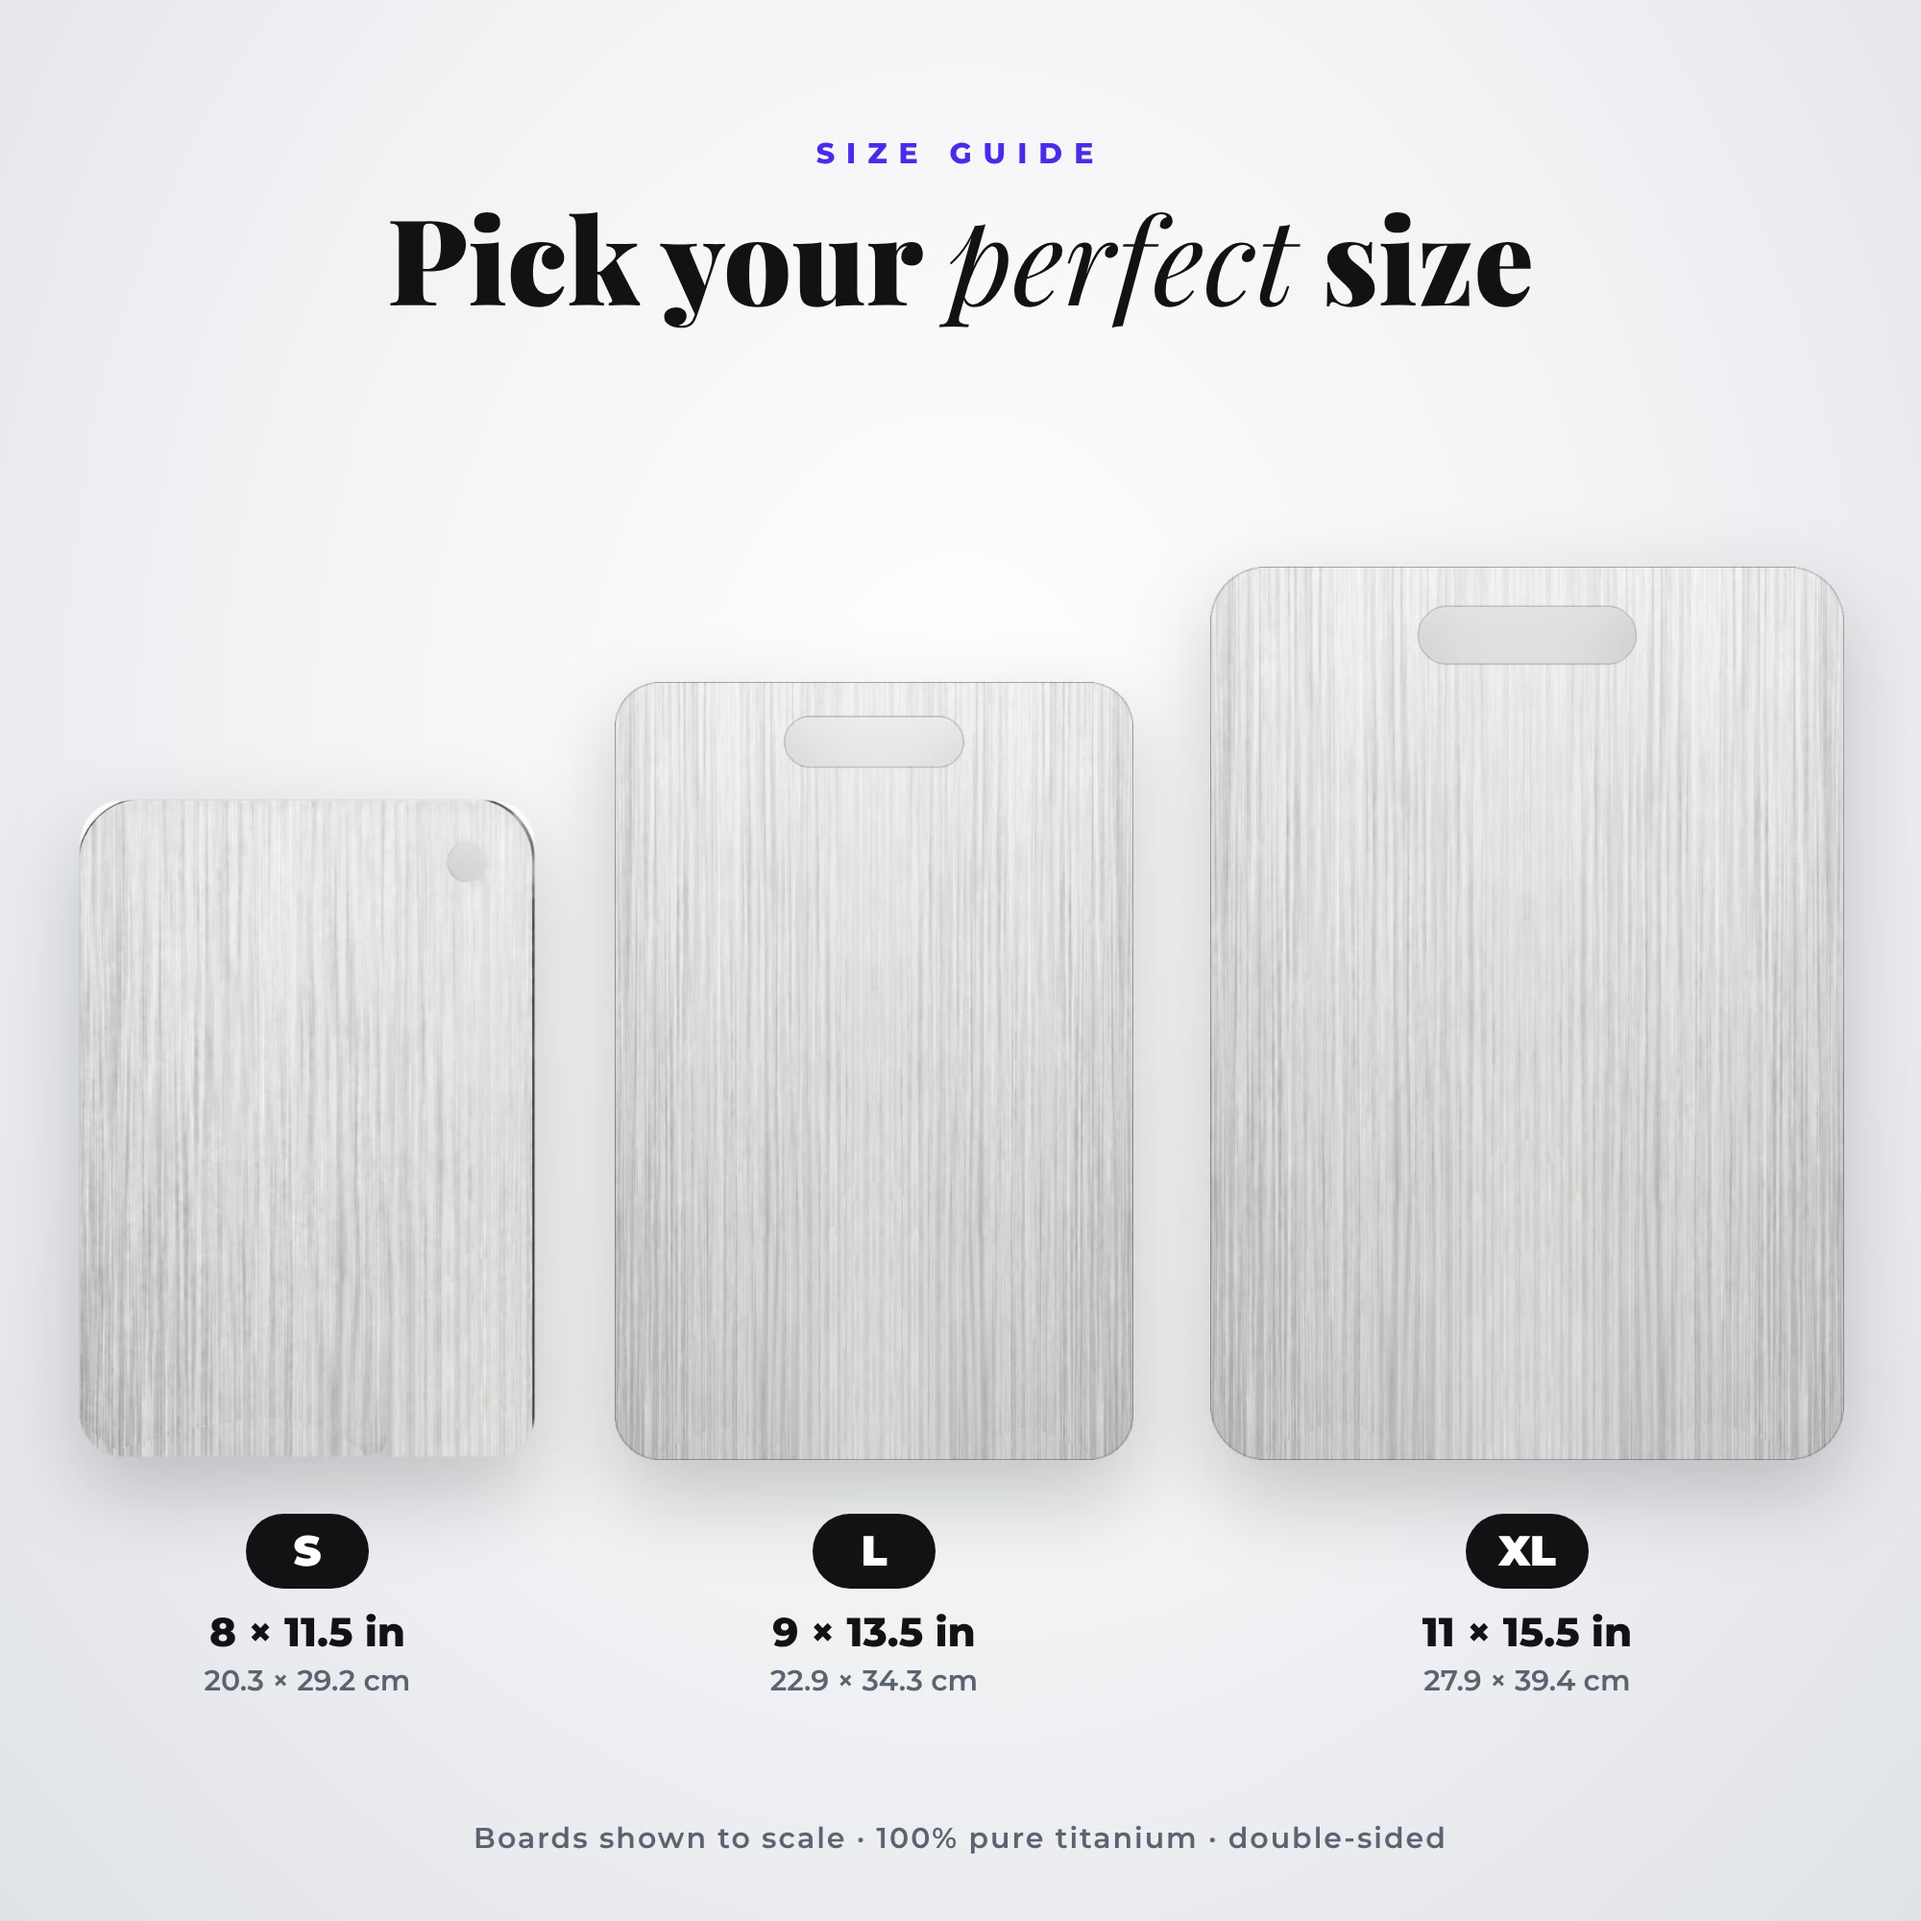
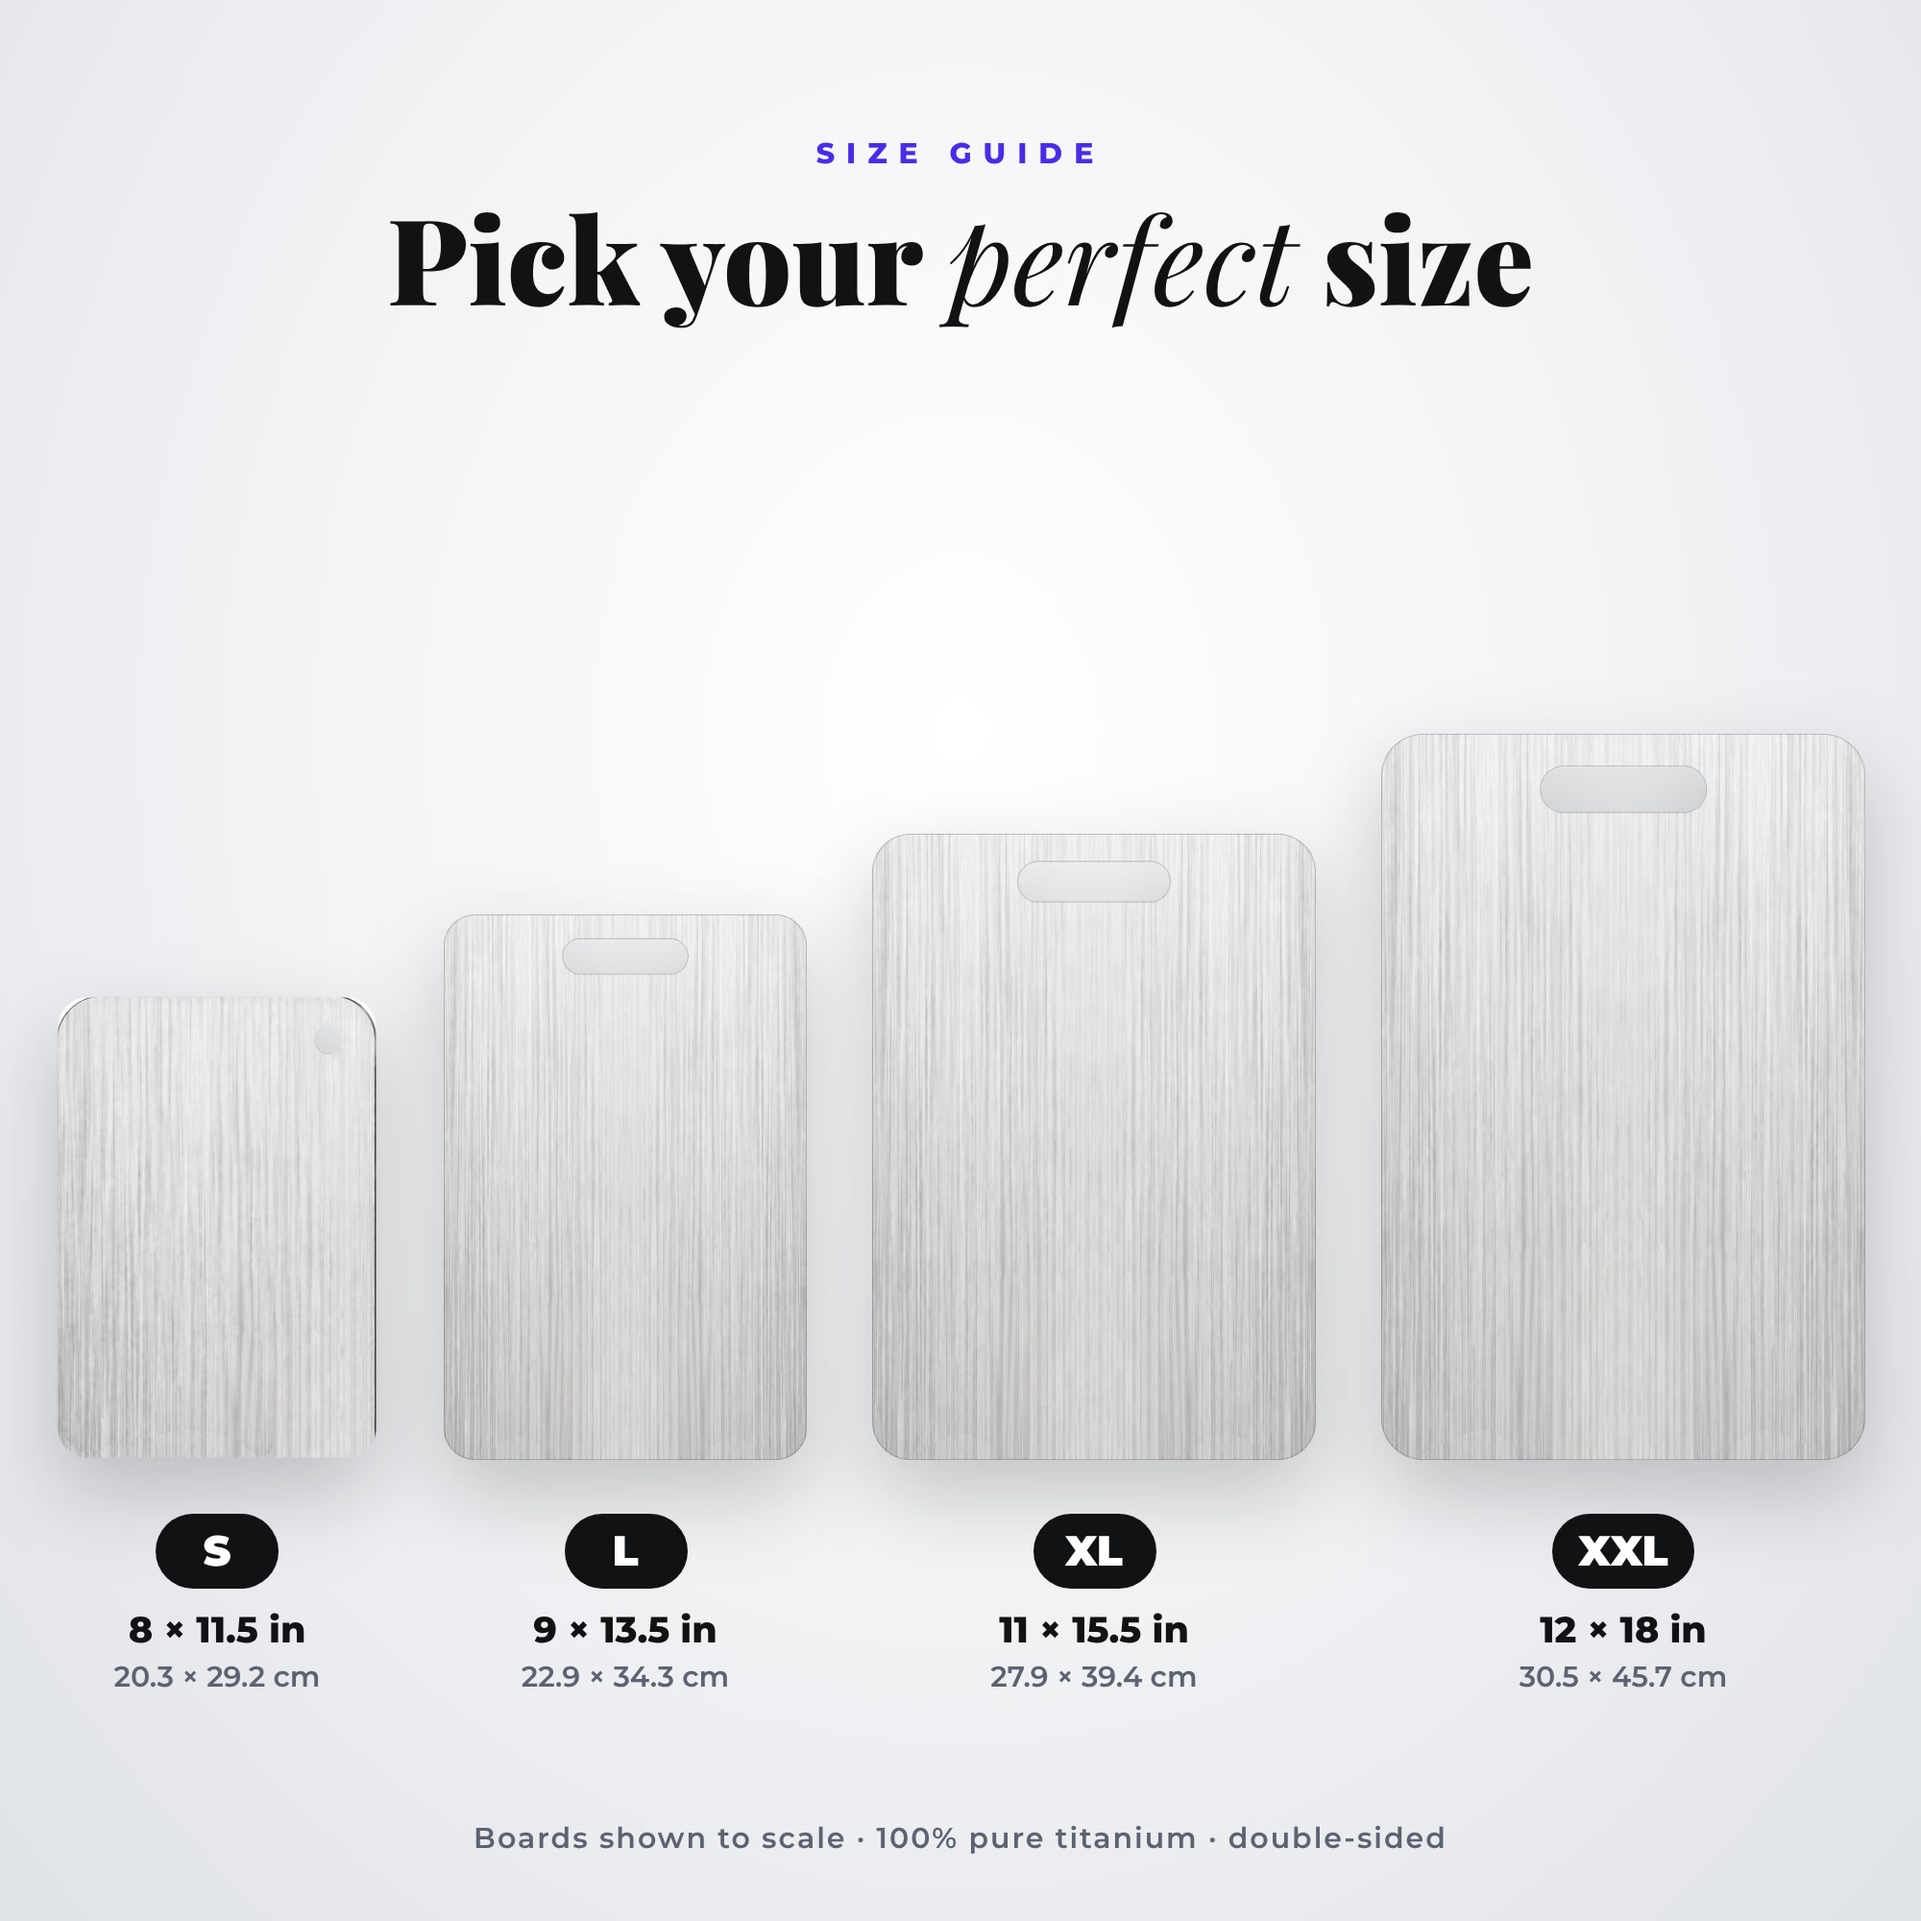
Add XXL (12x18 in) to true-to-scale size images
XXL dimensions taken from the listing title of B0HFC5JFW7
(1PC-XXL-12x18In); size guide now shows S/L/XL/XXL to scale and every
single-size image shares one scale.

Claude-Session: https://claude.ai/code/session_01KsU5KEg3t1LvreMzbppV9V

diff --git a/campaign/katori-titanium/source/product-shots/07-size-guide.html b/campaign/katori-titanium/source/product-shots/07-size-guide.html
@@ -21,10 +21,12 @@ body { background: radial-gradient(ellipse at 50% 38%, #ffffff 0%, #f2f3f5 50%, 
 .lbl { position:absolute; background:#fff; padding:3px 10px; border-radius:6px; font-weight:800; font-size:20px; white-space:nowrap; box-shadow:0 2px 8px rgba(0,0,0,.08); }
 .note { position:absolute; left:0; right:0; bottom:34px; text-align:center; font-weight:600; font-size:15px; color:#5b6270; letter-spacing:1px; }
 </style></head><body><div class="abs" style="left:0;right:0;top:70px;text-align:center"><div class="kicker">Size guide</div><div class="h1" style="margin-top:14px">Pick your <i>perfect</i> size</div></div>
-<div class="b" style="left:40px; top:415px; width:240px; height:345px"><img src="assets/board_S.png" alt="" /></div>
-<div class="tag" style="left:10px; width:300px; top:788px"><span class="sz">S</span><div class="in">8 × 11.5 in</div><div class="cm">20.3 × 29.2 cm</div></div>
-<div class="b" style="left:320px; top:355px; width:270px; height:405px"><img src="assets/board_L.png" alt="" /></div>
-<div class="tag" style="left:290px; width:330px; top:788px"><span class="sz">L</span><div class="in">9 × 13.5 in</div><div class="cm">22.9 × 34.3 cm</div></div>
-<div class="b" style="left:630px; top:295px; width:330px; height:465px"><img src="assets/board_XL.png" alt="" /></div>
-<div class="tag" style="left:600px; width:390px; top:788px"><span class="sz">XL</span><div class="in">11 × 15.5 in</div><div class="cm">27.9 × 39.4 cm</div></div>
+<div class="b" style="left:29px; top:518px; width:168px; height:242px"><img src="assets/board_S.png" alt="" /></div>
+<div class="tag" style="left:-1px; width:228px; top:788px"><span class="sz">S</span><div class="in" style="font-size:19px">8 × 11.5 in</div><div class="cm">20.3 × 29.2 cm</div></div>
+<div class="b" style="left:231px; top:476px; width:189px; height:284px"><img src="assets/board_L.png" alt="" /></div>
+<div class="tag" style="left:201px; width:249px; top:788px"><span class="sz">L</span><div class="in" style="font-size:19px">9 × 13.5 in</div><div class="cm">22.9 × 34.3 cm</div></div>
+<div class="b" style="left:454px; top:434px; width:231px; height:326px"><img src="assets/board_XL.png" alt="" /></div>
+<div class="tag" style="left:424px; width:291px; top:788px"><span class="sz">XL</span><div class="in" style="font-size:19px">11 × 15.5 in</div><div class="cm">27.9 × 39.4 cm</div></div>
+<div class="b" style="left:719px; top:382px; width:252px; height:378px"><img src="assets/board_XXL.png" alt="" /></div>
+<div class="tag" style="left:689px; width:312px; top:788px"><span class="sz">XXL</span><div class="in" style="font-size:19px">12 × 18 in</div><div class="cm">30.5 × 45.7 cm</div></div>
 <div class="note">Boards shown to scale · 100% pure titanium · double-sided</div></body></html>

diff --git a/campaign/katori-titanium/source/product-shots/10-size-XL.html b/campaign/katori-titanium/source/product-shots/10-size-XL.html
@@ -1,4 +1,4 @@
-<!doctype html><html lang="en"><head><meta charset="UTF-8" /><title>Size XL</title><style>@font-face { font-family: "Montserrat"; font-weight: 500 900; src: url("assets/fonts/Montserrat-800.woff2") format("woff2"); }
+<!doctype html><html lang="en"><head><meta charset="UTF-8" /><title>Size guide</title><style>@font-face { font-family: "Montserrat"; font-weight: 500 900; src: url("assets/fonts/Montserrat-800.woff2") format("woff2"); }
 @font-face { font-family: "Playfair"; font-weight: 900; src: url("assets/fonts/Playfair-normal-900.woff2") format("woff2"); }
 @font-face { font-family: "Playfair"; font-weight: 400; font-style: italic; src: url("assets/fonts/Playfair-italic-400.woff2") format("woff2"); }
 * { margin:0; padding:0; box-sizing:border-box; }
@@ -21,9 +21,9 @@ body { background: radial-gradient(ellipse at 50% 38%, #ffffff 0%, #f2f3f5 50%, 
 .lbl { position:absolute; background:#fff; padding:3px 10px; border-radius:6px; font-weight:800; font-size:20px; white-space:nowrap; box-shadow:0 2px 8px rgba(0,0,0,.08); }
 .note { position:absolute; left:0; right:0; bottom:34px; text-align:center; font-weight:600; font-size:15px; color:#5b6270; letter-spacing:1px; }
 </style></head><body><div class="abs" style="left:70px; top:70px"><div class="kicker">Size XL</div><div class="h1" style="margin-top:12px; font-size:54px">11 × 15.5 <i>inches</i></div></div>
-<div class="b" style="left:298px; top:218px; width:484px; height:682px"><img src="assets/board_XL.png" alt="" /></div>
-<div class="dim h" style="left:298px; top:188px; width:484px"></div>
-<div class="lbl" style="left:465px; top:170px">11 in · 27.9 cm</div>
-<div class="dim v" style="left:262px; top:218px; height:682px"></div>
-<div class="lbl" style="left:180px; top:543px">15.5 in · 39.4 cm</div>
+<div class="b" style="left:331px; top:311px; width:418px; height:589px"><img src="assets/board_XL.png" alt="" /></div>
+<div class="dim h" style="left:331px; top:281px; width:418px"></div>
+<div class="lbl" style="left:465px; top:263px">11 in · 27.9 cm</div>
+<div class="dim v" style="left:295px; top:311px; height:589px"></div>
+<div class="lbl" style="left:213px; top:590px">15.5 in · 39.4 cm</div>
 <div class="note" style="bottom:28px">All size images shown at the same scale · 100% pure titanium · double-sided</div></body></html>

diff --git a/campaign/katori-titanium/source/product-shots/08-size-S.html b/campaign/katori-titanium/source/product-shots/08-size-S.html
@@ -1,4 +1,4 @@
-<!doctype html><html lang="en"><head><meta charset="UTF-8" /><title>Size S</title><style>@font-face { font-family: "Montserrat"; font-weight: 500 900; src: url("assets/fonts/Montserrat-800.woff2") format("woff2"); }
+<!doctype html><html lang="en"><head><meta charset="UTF-8" /><title>Size guide</title><style>@font-face { font-family: "Montserrat"; font-weight: 500 900; src: url("assets/fonts/Montserrat-800.woff2") format("woff2"); }
 @font-face { font-family: "Playfair"; font-weight: 900; src: url("assets/fonts/Playfair-normal-900.woff2") format("woff2"); }
 @font-face { font-family: "Playfair"; font-weight: 400; font-style: italic; src: url("assets/fonts/Playfair-italic-400.woff2") format("woff2"); }
 * { margin:0; padding:0; box-sizing:border-box; }
@@ -21,9 +21,9 @@ body { background: radial-gradient(ellipse at 50% 38%, #ffffff 0%, #f2f3f5 50%, 
 .lbl { position:absolute; background:#fff; padding:3px 10px; border-radius:6px; font-weight:800; font-size:20px; white-space:nowrap; box-shadow:0 2px 8px rgba(0,0,0,.08); }
 .note { position:absolute; left:0; right:0; bottom:34px; text-align:center; font-weight:600; font-size:15px; color:#5b6270; letter-spacing:1px; }
 </style></head><body><div class="abs" style="left:70px; top:70px"><div class="kicker">Size S</div><div class="h1" style="margin-top:12px; font-size:54px">8 × 11.5 <i>inches</i></div></div>
-<div class="b" style="left:364px; top:394px; width:352px; height:506px"><img src="assets/board_S.png" alt="" /></div>
-<div class="dim h" style="left:364px; top:364px; width:352px"></div>
-<div class="lbl" style="left:465px; top:346px">8 in · 20.3 cm</div>
-<div class="dim v" style="left:328px; top:394px; height:506px"></div>
-<div class="lbl" style="left:246px; top:631px">11.5 in · 29.2 cm</div>
+<div class="b" style="left:388px; top:463px; width:304px; height:437px"><img src="assets/board_S.png" alt="" /></div>
+<div class="dim h" style="left:388px; top:433px; width:304px"></div>
+<div class="lbl" style="left:465px; top:415px">8 in · 20.3 cm</div>
+<div class="dim v" style="left:352px; top:463px; height:437px"></div>
+<div class="lbl" style="left:270px; top:666px">11.5 in · 29.2 cm</div>
 <div class="note" style="bottom:28px">All size images shown at the same scale · 100% pure titanium · double-sided</div></body></html>

diff --git a/campaign/katori-titanium/source/product-shots/11-size-XXL.html b/campaign/katori-titanium/source/product-shots/11-size-XXL.html
@@ -20,10 +20,10 @@ body { background: radial-gradient(ellipse at 50% 38%, #ffffff 0%, #f2f3f5 50%, 
 .dim.v { width:2px; } .dim.v::before, .dim.v::after { height:2px; width:16px; left:-7px; } .dim.v::before { top:0; } .dim.v::after { bottom:0; }
 .lbl { position:absolute; background:#fff; padding:3px 10px; border-radius:6px; font-weight:800; font-size:20px; white-space:nowrap; box-shadow:0 2px 8px rgba(0,0,0,.08); }
 .note { position:absolute; left:0; right:0; bottom:34px; text-align:center; font-weight:600; font-size:15px; color:#5b6270; letter-spacing:1px; }
-</style></head><body><div class="abs" style="left:70px; top:70px"><div class="kicker">Size L</div><div class="h1" style="margin-top:12px; font-size:54px">9 × 13.5 <i>inches</i></div></div>
-<div class="b" style="left:369px; top:387px; width:342px; height:513px"><img src="assets/board_L.png" alt="" /></div>
-<div class="dim h" style="left:369px; top:357px; width:342px"></div>
-<div class="lbl" style="left:465px; top:339px">9 in · 22.9 cm</div>
-<div class="dim v" style="left:333px; top:387px; height:513px"></div>
-<div class="lbl" style="left:251px; top:628px">13.5 in · 34.3 cm</div>
+</style></head><body><div class="abs" style="left:70px; top:70px"><div class="kicker">Size XXL</div><div class="h1" style="margin-top:12px; font-size:54px">12 × 18 <i>inches</i></div></div>
+<div class="b" style="left:312px; top:216px; width:456px; height:684px"><img src="assets/board_XXL.png" alt="" /></div>
+<div class="dim h" style="left:312px; top:186px; width:456px"></div>
+<div class="lbl" style="left:465px; top:168px">12 in · 30.5 cm</div>
+<div class="dim v" style="left:276px; top:216px; height:684px"></div>
+<div class="lbl" style="left:194px; top:542px">18 in · 45.7 cm</div>
 <div class="note" style="bottom:28px">All size images shown at the same scale · 100% pure titanium · double-sided</div></body></html>

diff --git a/campaign/katori-titanium/source/scripts/make_size_boards.py b/campaign/katori-titanium/source/scripts/make_size_boards.py
@@ -4,6 +4,7 @@ Sizes from the Amazon listing (B0HJR2HCQC):
   S  = 8 x 11.5 in, round hanging hole        (the real cut-out is used as-is)
   L  = 9 x 13.5 in, rectangular handle slot
   XL = 11 x 15.5 in, rectangular handle slot
+  XXL = 12 x 18 in (listing B0HFC5JFW7), rectangular handle slot like L/XL
 All boards are written at the same scale (PPI px per inch) so they compare correctly.
 
 Usage: make_size_boards.py <assets_dir>   (expects board_cutout.png from cutout_board.py)
@@ -56,4 +57,5 @@ def slot_board(w_in, h_in, name):
 
 slot_board(9.0, 13.5, "L")
 slot_board(11.0, 15.5, "XL")
+slot_board(12.0, 18.0, "XXL")
 print("S", s_w, s_h)
